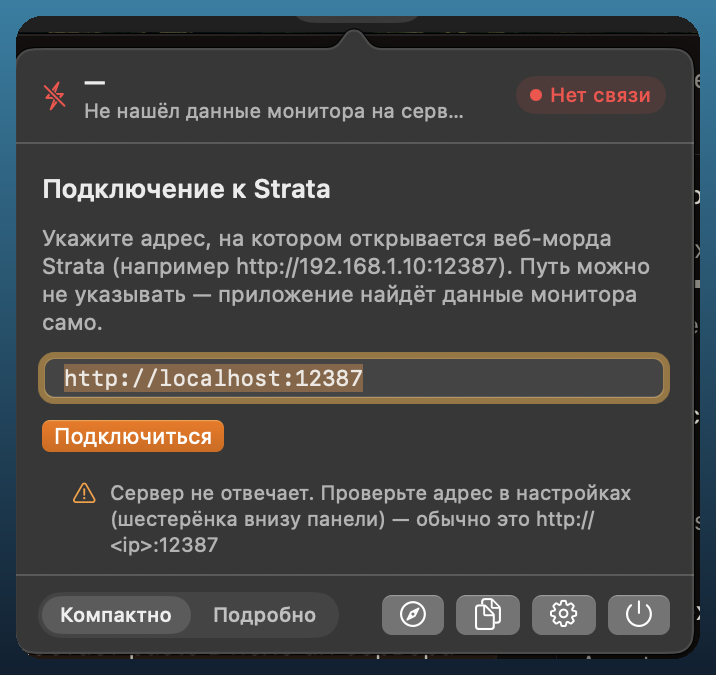
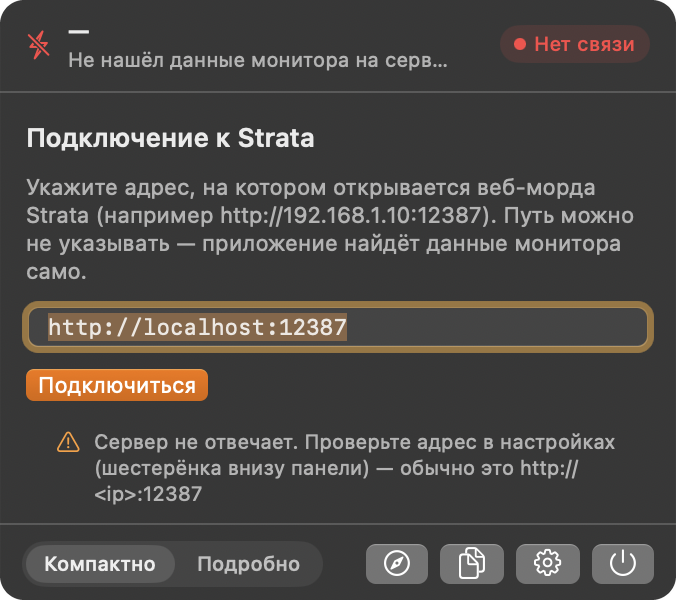
[docs/e2e] скриншоты: вырез по границам окна, прозрачный фон
Было: панель вырезалась из снимка экрана по цвету и вклеивалась на градиент
с грубой маской скругления — «стрелка» над верхним краем попадала в кадр,
углы выглядели вырезанными ножницами.

Стало: scripts/panel-shot.py находит поповер по фоновому цвету, отбрасывает
короткие ряды (это «стрелка»), вырезает панель по границам окна и скругляет
углы со сглаживанием. Фон PNG прозрачный — фон приложения не нужен.

Все 11 снимков в docs/ пересобраны из уже снятых кадров, без новых съёмок
экрана. Скрипт clean-screenshot.py удалён, README обновлён.

diff --git a/scripts/panel-shot.py b/scripts/panel-shot.py
@@ -1,0 +1,102 @@
+#!/usr/bin/env python3
+"""Вырезает панель монитора из снимка экрана.
+
+Снимок экрана содержит поповер и чужие окна за ним. Скрипт находит прямоугольник
+панели по её фоновому цвету, отбрасывает «стрелку», торчащую над верхним краем,
+и вырезает панель со сглаженными скруглёнными углами на прозрачном фоне.
+
+Готовый кадр потом причесывается отдельным инструментом (prettyshot) — градиент,
+отступы, тень.
+
+    python3 scripts/panel-shot.py raw.png panel.png
+"""
+import sys
+from PIL import Image, ImageDraw
+
+PANEL_COLOR = (55, 55, 55)     # фон поповера в тёмной теме
+TOLERANCE = 4                   # допуск по цвету (пиксели дизерингованные)
+CORNER_RADIUS = 24              # радиус скругления в пикселях кадра (2x)
+SUPERSAMPLE = 4                 # сглаживание маски скругления
+
+
+def close(pixel, color, tolerance=TOLERANCE):
+    return all(abs(pixel[i] - color[i]) <= tolerance for i in range(3))
+
+
+def longest_run(px, y, w, color):
+    """Самый длинный ряд пикселей заданного цвета в строке."""
+    best = (0, -1)
+    start = None
+    for x in range(w):
+        if close(px[x, y], color):
+            if start is None:
+                start = x
+        else:
+            if start is not None and x - start > best[1] - best[0]:
+                best = (start, x - 1)
+            start = None
+    if start is not None and w - start > best[1] - best[0]:
+        best = (start, w - 1)
+    return best
+
+
+def find_panel(image, color=PANEL_COLOR):
+    """Прямоугольник панели без «стрелки».
+
+    Ряд считается частью панели, только если он не короче 70 % самой длинной
+    строки: у «стрелки» над панелью ряд короткий, и она отсекается.
+    """
+    px = image.load()
+    w, h = image.size
+    rows = []
+    for y in range(h):
+        x0, x1 = longest_run(px, y, w, color)
+        if x1 >= x0:
+            rows.append((y, x0, x1))
+    if not rows:
+        return None
+    widest = max(x1 - x0 for _, x0, x1 in rows)
+    body = [r for r in rows if (r[2] - r[1]) >= widest * 0.7]
+    if not body:
+        return None
+    x0 = min(r[1] for r in body)
+    x1 = max(r[2] for r in body)
+    y0 = min(r[0] for r in body)
+    y1 = max(r[0] for r in body)
+    if (x1 - x0) > w * 0.985 or (y1 - y0) > h * 0.985:
+        return None
+    return x0, y0, x1, y1
+
+
+def rounded_mask(size, radius=CORNER_RADIUS):
+    """Сглаженная маска скруглённого прямоугольника."""
+    w, h = size
+    big = Image.new("L", (w * SUPERSAMPLE, h * SUPERSAMPLE), 0)
+    draw = ImageDraw.Draw(big)
+    draw.rounded_rectangle(
+        [0, 0, w * SUPERSAMPLE - 1, h * SUPERSAMPLE - 1],
+        radius=radius * SUPERSAMPLE,
+        fill=255,
+    )
+    return big.resize((w, h), Image.Resampling.LANCZOS)
+
+
+def extract(src, dst):
+    image = Image.open(src).convert("RGB")
+    box = find_panel(image)
+    if box is None:
+        print("не нашёл поповер", file=sys.stderr)
+        return False
+    x0, y0, x1, y1 = box
+    crop = image.crop((x0, y0, x1 + 1, y1 + 1)).convert("RGBA")
+    crop.putalpha(rounded_mask(crop.size))
+    crop.save(dst)
+    print(f"{src} -> {dst}: панель {crop.size[0]}x{crop.size[1]}")
+    return True
+
+
+if __name__ == "__main__":
+    if len(sys.argv) != 3:
+        print(__doc__)
+        raise SystemExit(2)
+    raise SystemExit(0 if extract(sys.argv[1], sys.argv[2]) else 1)

diff --git a/README.ru.md b/README.ru.md
@@ -219,6 +219,12 @@ Desktop-приложение читается через поток событи
 `MenuBarExtra`: в метке меню-бара нужно совместить SF Symbol и моноширинное
 число.
 
+Скриншоты в `docs/` вырезаются из снимков экрана скриптом
+`scripts/panel-shot.py`: он находит поповер по фоновому цвету, отбрасывает
+«стрелку» над верхним краем и вырезает панель по границам окна — со
+сглаженными скруглёнными углами. Фон PNG прозрачный, панель показана ровно
+такая, как на экране.
+
 ## Лицензия
 
 MIT — см. [LICENSE](LICENSE).

diff --git a/README.md b/README.md
@@ -221,9 +221,11 @@ The menu bar item is drawn with AppKit (`NSStatusItem`) rather than
 `MenuBarExtra`, because a menu bar label has to combine an SF Symbol with a
 monospaced number.
 
-The screenshots in `docs/` are produced by `scripts/clean-screenshot.py`: it
-cuts the popover out of a screen capture and puts it on a clean gradient, so
-no other windows leak into the picture.
+The screenshots in `docs/` are cut out of screen captures by
+`scripts/panel-shot.py`: it finds the popover by its background colour, drops the
+arrow above the top edge and cuts along the window border with rounded,
+anti-aliased corners. The PNG keeps a transparent background, so the panel is
+shown exactly as it is on screen.
 
 ## License
 
